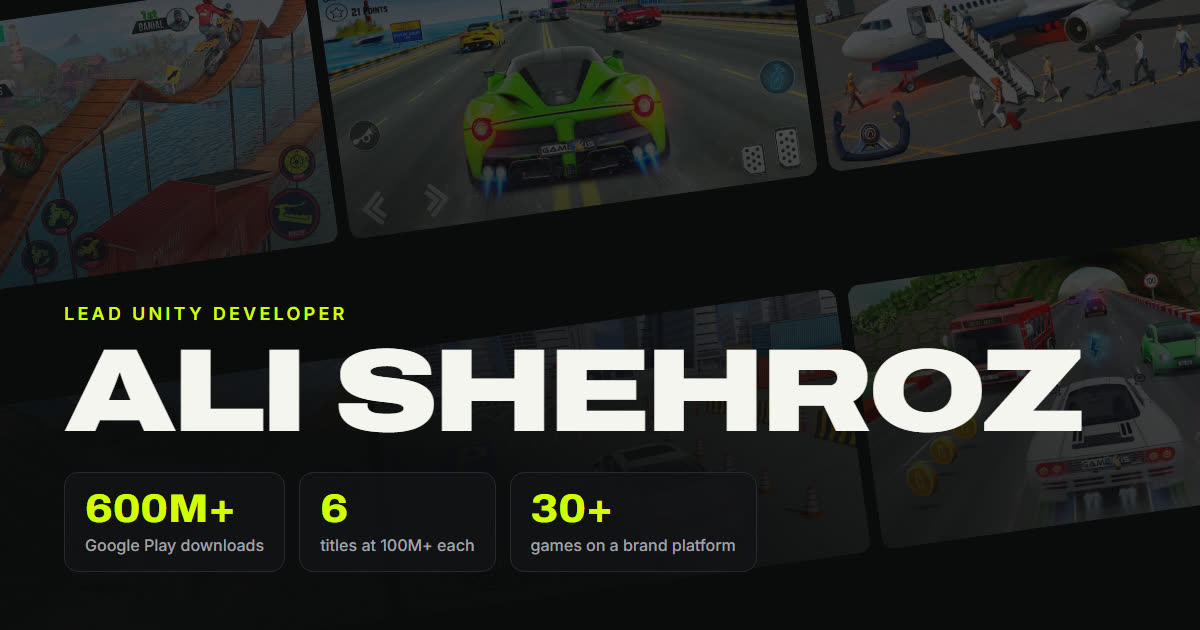
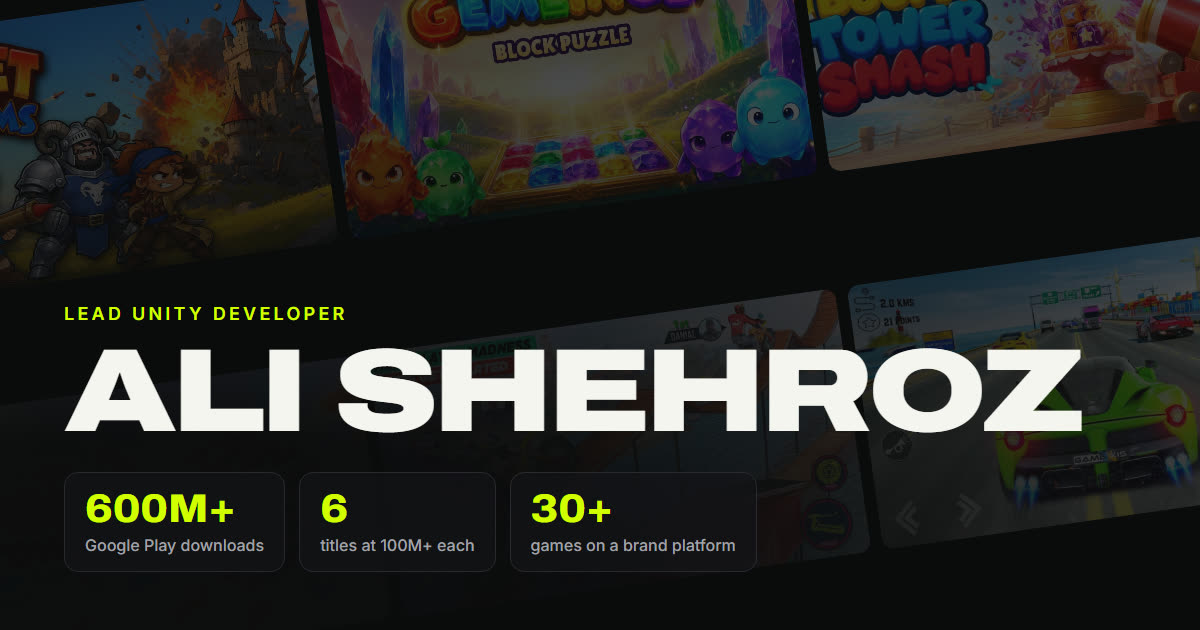
Hero background leads with recent games art

Changed region(s): [[0.0, 0.0, 1.0, 0.4524], [0.6475, 0.3619, 1.0, 0.8143], [0.0925, 0.3921, 0.1233, 0.4222]]

diff --git a/index.html b/index.html
@@ -21,7 +21,7 @@
 <link rel="preconnect" href="https://fonts.googleapis.com">
 <link rel="preconnect" href="https://fonts.gstatic.com" crossorigin>
 <link href="https://fonts.googleapis.com/css2?family=Archivo:wdth,wght@62..125,500..900&family=Inter:wght@400;500;600&display=swap" rel="stylesheet">
-<link rel="preload" as="image" href="assets/img/hits/bike-stunt_shot1.webp" fetchpriority="high">
+<link rel="preload" as="image" href="assets/img/art/rocket_feature.webp" fetchpriority="high">
 <link rel="stylesheet" href="assets/css/style.css">
 <script>document.documentElement.classList.add('js');</script>
 </head>
@@ -47,12 +47,15 @@
 <section class="hero" aria-label="Introduction">
   <div class="hero__bg" aria-hidden="true">
     <div class="hero__mosaic">
-      <img src="assets/img/hits/bike-stunt_shot1.webp" alt="" width="1280" height="720" fetchpriority="high">
-      <img src="assets/img/hits/highway-racing_shot1.webp" alt="" width="1280" height="720">
-      <img src="assets/img/hits/skydrift_shot1.webp" alt="" width="1280" height="720">
-      <img src="assets/img/hits/bus-simulator_shot1.webp" alt="" width="1280" height="720">
-      <img src="assets/img/hits/car-parking_shot1.webp" alt="" width="1280" height="720">
-      <img src="assets/img/hits/mini-car-racing_shot1.webp" alt="" width="1280" height="720">
+      <img src="assets/img/art/rocket_feature.webp" alt="" width="1024" height="500" fetchpriority="high">
+      <img src="assets/img/art/gemlings_feature.webp" alt="" width="1024" height="500" loading="eager">
+      <img src="assets/img/art/tower_feature.webp" alt="" width="1024" height="500" loading="eager">
+      <img src="assets/img/art/sand_feature.webp" alt="" width="1024" height="500" loading="eager">
+      <img src="assets/img/art/cube_feature.webp" alt="" width="1024" height="500" loading="eager">
+      <img src="assets/img/art/ant_feature.webp" alt="" width="1024" height="500" loading="eager">
+      <img src="assets/img/hits/bike-stunt_shot1.webp" alt="" width="1280" height="720" loading="eager">
+      <img src="assets/img/hits/highway-racing_shot1.webp" alt="" width="1280" height="720" loading="eager">
+      <img src="assets/img/hits/skydrift_shot1.webp" alt="" width="1280" height="720" loading="eager">
     </div>
     <div class="hero__shade"></div>
   </div>

diff --git a/assets/css/style.css b/assets/css/style.css
@@ -89,7 +89,7 @@ em { font-style: normal; color: var(--accent); }
   position: absolute; inset: -12% -20%;
   display: grid; grid-template-columns: repeat(3, 1fr); gap: 14px;
   transform: rotate(-8deg);
-  opacity: .42;
+  opacity: .5;
 }
 .hero__mosaic img { width: 100%; height: 100%; aspect-ratio: 16/9; object-fit: cover; border-radius: 14px; filter: saturate(1.1) contrast(1.05); }
 .hero__mosaic img:nth-child(odd) { animation: drift 26s ease-in-out infinite alternate; }
